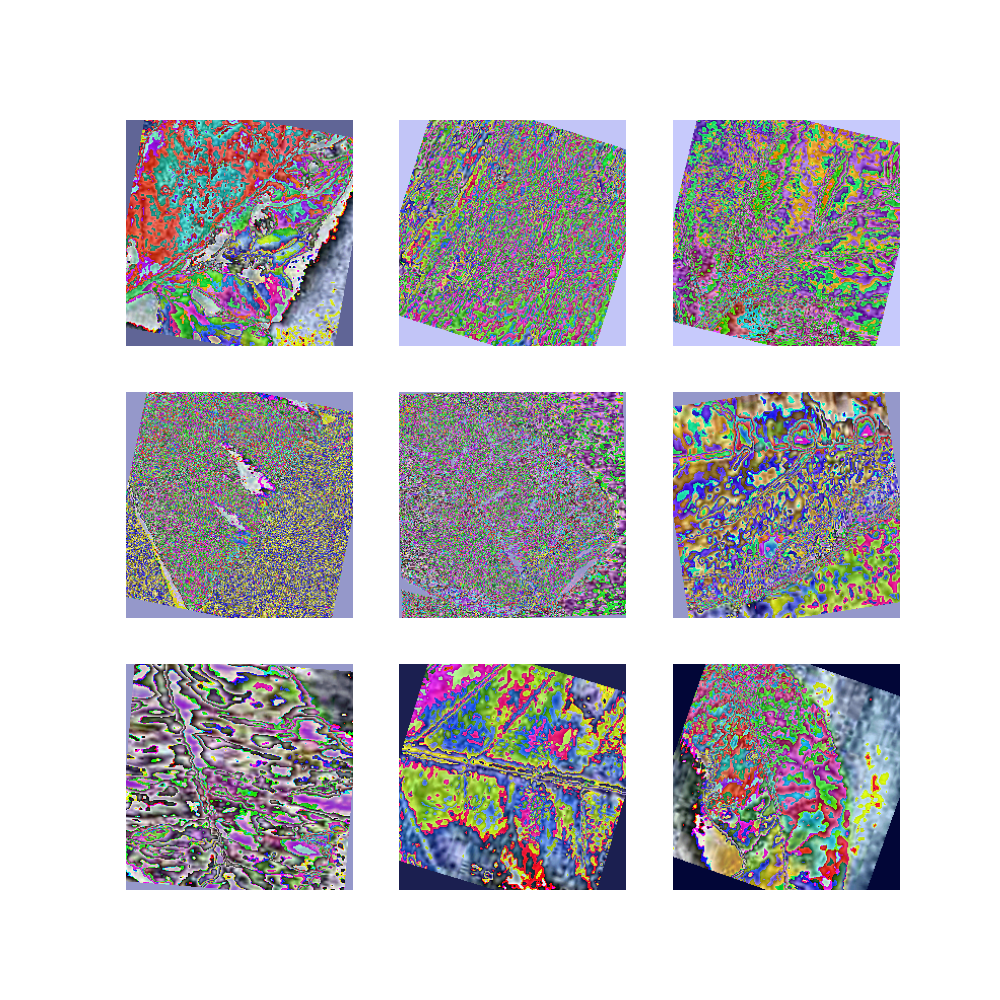
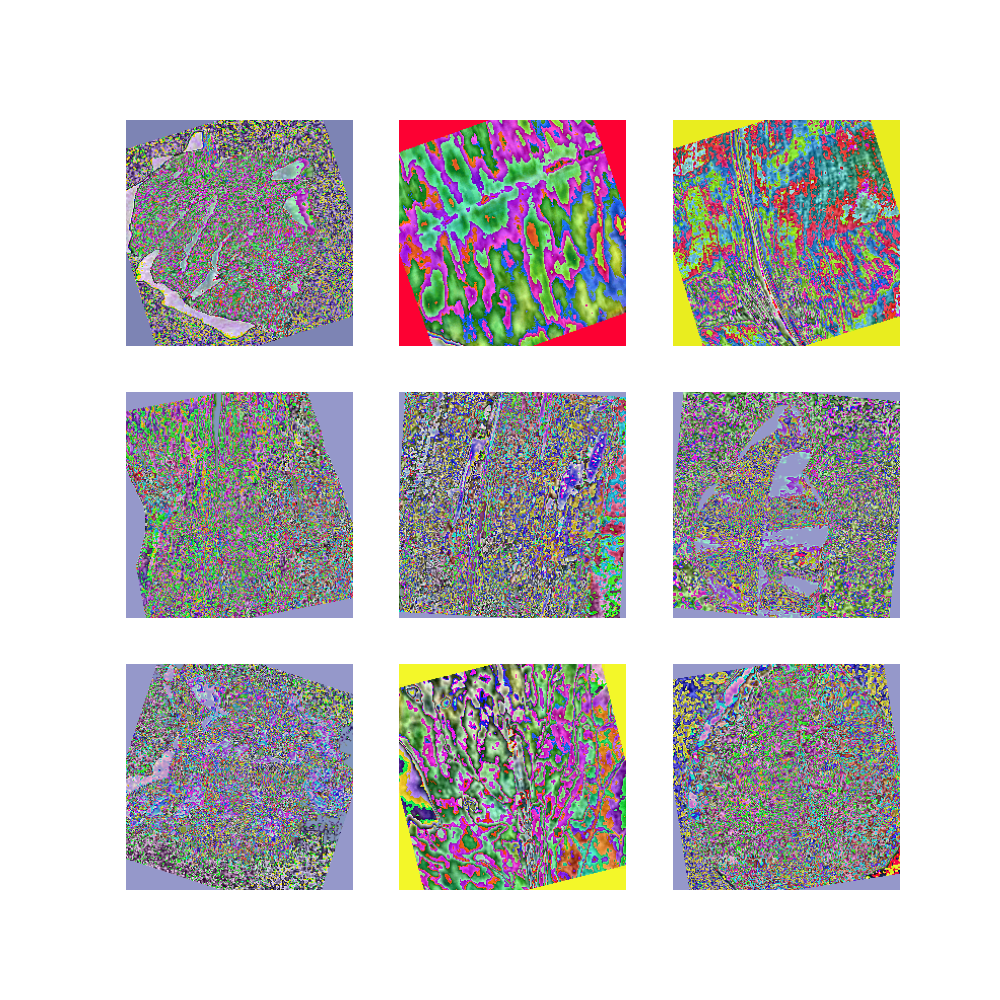
reevaluated the dataset transformations, retrained and improved the test accuracy from 97% to 99%

diff --git a/train/local_training.py b/train/local_training.py
@@ -1,4 +1,5 @@
 import os
+import re
 
 import matplotlib.pyplot as plt
 import numpy as np
@@ -331,8 +332,9 @@ def train():
 
     dataset_transforms = torchvision.transforms.Compose([
         torchvision.transforms.Resize((224, 224)),
+        torchvision.transforms.Lambda(custom_clahe_transform),  # increases contrast in a smart way
         torchvision.transforms.ToTensor(),
-        torchvision.transforms.Normalize((0.46445759, 0.49094302, 0.41258632), (0.1741543, 0.14767326, 0.19304359))
+        torchvision.transforms.Normalize(mean=(0.4914, 0.4822, 0.4465), std=(0.2023, 0.1994, 0.2010))
     ])
 
     dump(dataset_transforms, '../models_storage/saved_models/transform.joblib', compress=True)
@@ -350,21 +352,19 @@ def train():
     print(f"Number of test samples: {len(test_dataset)}")
 
     train_transforms = torchvision.transforms.Compose([
-        torchvision.transforms.Lambda(custom_clahe_transform),  # increases contrast in a smart way
-        torchvision.transforms.CenterCrop(224),
-        torchvision.transforms.RandomResizedCrop(224),
+        torchvision.transforms.Resize((224, 224)),
+        torchvision.transforms.RandomResizedCrop((224, 224), scale=(0.25, 1.0)),
         torchvision.transforms.RandomHorizontalFlip(),
         torchvision.transforms.RandomVerticalFlip(),
         torchvision.transforms.RandomRotation(20, interpolation=torchvision.transforms.InterpolationMode.BILINEAR,
                                               expand=False),
+        torchvision.transforms.Lambda(custom_clahe_transform),
         torchvision.transforms.ColorJitter(brightness=.05, contrast=0.5, saturation=.05, hue=.05),
-        torchvision.transforms.Resize((224, 224)),
         torchvision.transforms.ToTensor(),
-        torchvision.transforms.Normalize((0.4914, 0.4822, 0.4465), (0.2023, 0.1994, 0.2010))
+        torchvision.transforms.Normalize(mean=(0.4914, 0.4822, 0.4465), std=(0.2023, 0.1994, 0.2010))
     ])
 
     train_dataset.dataset.transform = train_transforms
-    show_dataset(train_dataset)
 
     train_loader = torch.utils.data.DataLoader(train_dataset, batch_size=config.batch_size, shuffle=True,
                                                num_workers=2, pin_memory=True,
@@ -388,8 +388,10 @@ def train():
         model.load_state_dict(torch.load('../models_storage/export_models/ResModel.pth', map_location=device))
     else:
         # loss_fn = nn.NLLLoss().to(device)
-        loss_fn = FocalLoss(alpha=config.focal_loss['alpha'], gamma=config.focal_loss['gamma'],
-                            num_classes=num_classes).to(device)
+        loss_fn = FocalLoss(num_classes=num_classes,
+                            alpha=config.focal_loss['alpha'],
+                            gamma=config.focal_loss['gamma'],
+                            ).to(device)
 
         optimizer = optim.Adamax(model.parameters(), lr=config.adamax_lr, weight_decay=config.adamax_weight_decay)
         scheduler = optim.lr_scheduler.StepLR(optimizer, gamma=0.5, step_size=3)
@@ -455,7 +457,7 @@ def train():
             val_acc = 0.0
             val_losses = []
 
-            # Disables dropout layers and batch normalization layers use population statistics for normalization
+            # Disables dropout layers, batch normalization layers use population statistics for normalization
             model.eval()
             with torch.no_grad():
                 for x, y in val_loader:

diff --git a/deployment/local/server/main.py b/deployment/local/server/main.py
@@ -15,6 +15,18 @@ from enum import Enum
 from PIL import Image
 from train.models import ResModel
 from torch import Tensor
+from img_aug_transform import CustomCLAHE
+
+
+def custom_clahe_transform(img: Image) -> Image:
+    """Apply custom Contrast Limited Adaptive Histogram Equalization (CLAHE) transformation to an image.
+
+    :param img: The input image to be transformed.
+    :returns: The transformed image.
+    """
+
+    transform = CustomCLAHE(clip_limit=2.0, tile_grid_size=(8, 8))
+    return transform(img)
 
 
 def preprocess(package: dict, input_image: Image) -> Tensor:
@@ -54,7 +66,7 @@ class Model(str, Enum):
 app = FastAPI(
     title='ML Model',
     description='Model for classification of plant diseases',
-    version='0.0.1',
+    version='0.0.2',
 )
 
 app.add_middleware(CORSMiddleware, allow_origins=['*'])
@@ -68,11 +80,11 @@ async def startup_event():
     logger.info(f'Pytorch using device: {device}')
 
     model = ResModel().to(device)
-    model.load_state_dict(torch.load('../../../models_storage/saved_models/ResModel.pth', map_location=device))
+    model.load_state_dict(torch.load('../../../models_storage/export_models/ResModel.pth', map_location=device))
     model.eval()
 
     app.package = {
-        'transform': joblib.load('../../../models_storage/saved_models/transform.joblib'),
+        'transform': joblib.load('../../../models_storage/export_models/transform.joblib'),
         'model': model,
         'device': device
     }
@@ -99,9 +111,17 @@ async def do_prediction(model: Model, file: UploadFile = File(...)) -> dict:
 
     y = predict(app.package, image)[0]
 
-    pred = ['apple_black_rot', 'apple_cedar_rust', 'apple_healthy', 'apple_scab'][y.argmax()]
+    probabilities = np.exp(y) / np.sum(np.exp(y))
+    predicted_class_index = np.argmax(probabilities)
+    confidence_percentage = probabilities[predicted_class_index] * 100
+    print(confidence_percentage)
 
-    return {'prediction': pred}
+    pred = local_config.class_names[predicted_class_index]
+
+    return {
+        'prediction': pred,
+        'confidence': confidence_percentage
+        }
 
 
 if __name__ == '__main__':

diff --git a/deployment/local/client/client.py b/deployment/local/client/client.py
@@ -25,13 +25,13 @@ def response_from_server(url, image_file, verbose=True) -> requests.models.Respo
 
 
 if __name__ == '__main__':
-    base_url = local_config.google_cloud_service
+    base_url = local_config.base_url
     endpoint = '/predict'
     model = 'res-model'
 
     full_url = base_url + endpoint + '?model=' + model
 
-    with open('images_post/apple_cedar_apple_rust5.jpg', 'rb') as image_file:
+    with open('images_post/potato/potato_early_blight19.jpg', 'rb') as image_file:
         prediction = response_from_server(full_url, image_file)
 
     response_json = prediction.json()

diff --git a/train/focal_loss.py b/train/focal_loss.py
@@ -7,7 +7,7 @@ from torch import Tensor
 
 
 class FocalLoss(nn.Module):
-    def __init__(self, alpha: float = 0.25, gamma: float = 2.0, num_classes=4):
+    def __init__(self, num_classes, alpha: float = 0.25, gamma: float = 2.0):
         """Focal loss for multiclass classification.
 
         :param alpha: Weighting factor, positive class samples are given four times less weight than negative class samples.
